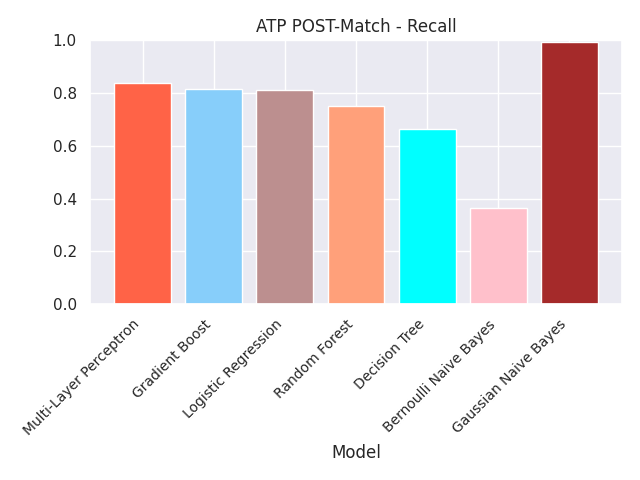
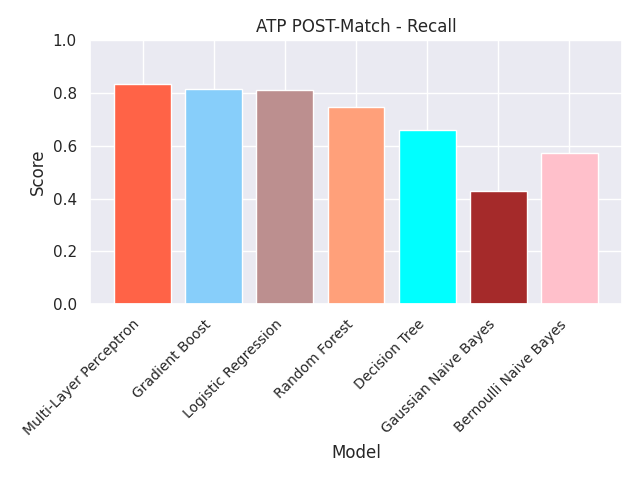
Updated ReadMe and metiric visualizations

diff --git a/README.md b/README.md
@@ -5,7 +5,7 @@ Demonstrating the ability to automate ETL processes in AWS utilizing EC2, S3 and
 The goal of the project is to examine different Machine Learning Models and their effectiveness in predicting ATP (Men's) and WTA (Women's) match results.  Models will be created both from player data pre-match as well as from data after match completed.  This will provide insight into whether tennis match results can be predicted based on players rankings and biometrics (pre-match data) or if in-match performance (post-match data) regardless of player ranking has a greater affect on being able to predict match results.  Included in the predictions will be feature importance from the dataset.  This will help determine what metrics within the match have the highest impact on whether a player will win or not.  This will help any tennis player whether amateur or professional determine what aspects they should focus on in training to increase their likelihood of winning.
 
 ## Dataset
-Historical Match data will be ingested from [Jeff Sackmann's](https://github.com/JeffSackmann) github repository.  The schema for both [ATP](https://github.com/JeffSackmann/tennis_atp) and [WTA](https://github.com/JeffSackmann/tennis_wta) data is the same, providing for singular pre-processing steps for both Men and Women's matches.  The table schema and explanation of data represented in each column can be seen [here](https://github.com/JeffSackmann/tennis_atp/blob/master/matches_data_dictionary.txt).
+Historical Match data will be ingested from [Jeff Sackmann's](https://github.com/JeffSackmann) github repository.  The schema for both [ATP](https://github.com/JeffSackmann/tennis_atp) and [WTA](https://github.com/JeffSackmann/tennis_wta) data is the same, providing for singular pre-processing steps for both Men and Women's matches.  The time frame selected was from the year 1989 to present time.  The table schema and explanation of data represented in each column can be seen [here](https://github.com/JeffSackmann/tennis_atp/blob/master/matches_data_dictionary.txt).
 
 ### Pre-Processing
 Machine Learning Models require training and test data to be input in a form with no null values and all numeric values.  The following pre-processing steps fromatted the dataset in the proper format.
@@ -84,8 +84,29 @@ One-Hot Encoding was performed on all columns that have non-numeric values to en
 >
 >'surface', 'draw_size', 'p0_hand', 'p1_hand', 'round'
 
+**Data Transformation Summary**
+
+Initial raw data shape:
+
+ATP - Instances: 108950, Features: 49
+
+WTA - Instances: 93030, Features: 49
+
+Pre Match Clean Data Shape:
+
+ATP - Instances: 104424, Features: 49
+
+WTA - Instances: 86902, Features: 53
+
+Post Match Clean Data Shape:
+
+ATP - Instances: 94904, Features: 61
+
+WTA - Instances: 20992, Features: 55
+
 ## Model Building
-The Machine Learning problem is a binary classification problem where the prediction is trying to identify the match winner.  Either Player 0 or Player 1.  There a multiple classification models that can be examined to help find which model is best and find the best.  The following classification models were selected to inspect prediction results and find the most accurate model.
+The Machine Learning problem is a binary classification problem where the prediction is trying to identify the match winner.  Either Player 0 or Player 1.  There a multiple classification models that can be examined to help find which 
+model is best and find the best.  The following classification models were selected to inspect prediction results and find the most accurate model.
 <ol>
   <li>Multi-Layer Perceptron (Neural Network)</li>
   <li>Logistice Regression</li>
@@ -96,38 +117,72 @@ The Machine Learning problem is a binary classification problem where the predic
 </ol>
 
 ### Model Metrics
-The six machine learning models are ready to be trained with the tennis data.  The data is separated from its features and target (match_winner) variables.  The features data is normalized using sci-kit learn minMaxScaler so all feature values are in the same range and prevent any feature biases being created based on ranges of values in a feature.   Larger scales in a feature have the ability to introduce a bias when training a model.  Using minMaxScaler prevents this.
+The six machine learning models are ready to be trained with the tennis data.  The data is separated from its features and target (match_winner) variables.  The features data is normalized using sci-kit learn minMaxScaler so all feature values are in the same
+range and prevent any feature biases being created based on ranges of values in a feature.   Larger scales in a feature have the ability to introduce a bias when training a model.  Using minMaxScaler prevents this.
 
-K-Fold Cross Validation was then used on each of the datasets and each of the models using 5 splits.  This provides an accurate represenation of the data using different portions of the data set.  Averaging the results of the model metrics (accuracy, precision, recall, F1) we can see the overall prediction results and see which models are most accurate.  Pre and Post match data can also be compared as seen below.  All metric plots and comparison plots can be found in the [Outputs](https://github.com/timsj12/Tennis_Match_Predictions/tree/master/Outputs) section of this repo under their appropriate tour and directory.
-
-
-**ATP Model Accuracy Comparison**
-
-![image](Outputs/ATP/PRE_MATCH/METRICS/VISUALIZATIONS/atp_pre_match_Accuracy.png)
-
-**ATP Model Time Comparison**
-
-![image](Outputs/ATP/POST_MATCH/METRICS/VISUALIZATIONS/atp_post_match_Time.png)
+K-Fold Cross Validation was then used on each of the datasets and each of the models using 5 splits.  This provides an accurate represenation of the data using different portions of the data set.  Averaging the results of the model metrics (accuracy, precision,
+recall, F1) we can see the overall prediction results and see which models are most accurate.  Pre and Post match data can also be compared as seen below.  All metric plots and comparison plots can be found in the [Outputs](https://github.com/timsj12/Tennis_Match_Predictions/tree/master/Outputs) 
+section of this repo under their appropriate tour and directory.
 
 
+**ATP Model [Accuracy Comparison](Outputs/ATP/PRE_POST_COMPARISON/atp_metric_pre_post_comparison_Accuracy.png)**
+
+![image](Outputs/ATP/PRE_POST_COMPARISON/atp_metric_pre_post_comparison_Accuracy.png)
+
+The results above show that post match data models are better at predicting match results.  This result is obvious and is expected.  The pre-match results have less data to train on and are only taking into 
+account player biometrics, court surface, tournament round and player rank.  Of the models, Multi-Layer Perceptron, Logistic Regression and Gradient Boost performed the best.  While both Naive Bayes and Decision Tree did not perform as well.  Naive Bayes is 
+generally considered a "quick and dirty" model for getting the model to run and get an initial result.  Features are not correlated to each other so the Naive Bayes being the least accurate is not surprising.
+
+Surprisingly, none of the models are able to predict player winner by greater than 82% accuracy.  Further statistical analysis and feature engineering would need to be done to create more accurate models in both the
+pre match and post match datasets.  Other methods to be used for improvements will be discussed later.
+
+**ATP Model [Time Comparison](Outputs/ATP/PRE_POST_COMPARISON/atp_metric_pre_post_comparison_Time.png)**
+
+![image](Outputs/ATP/PRE_POST_COMPARISON/atp_metric_pre_post_comparison_Time.png)
+
+Model Completion Time is also an interesting metric to observe.  Multi-Layer Peceptron Model building took significantly more time to train than all the other combined.  Though it was the most accurate model it is a draw back when 
+using neural networks as the model transfers data back and forth between each layer in the network and between each of the nodes.  Surprisingly the second most accurate model, Gradient Boost was the third fastest model behind the two Naive Bayes Models.
+In terms of performance and accuracy this would be the best model to use for this data set.  It is accurate and fast.
+
+Individual Results for each data set and model are available in their directory within the Metrics/Visualizations sub-directory of each of the datasets.
+
+Example:
+
+**WTA Post Match [Precision](Outputs/WTA/POST_MATCH/METRICS/VISUALIZATIONS/wta_post_match_Precision.png)**
+
+![image](Outputs/WTA/POST_MATCH/METRICS/VISUALIZATIONS/wta_post_match_Precision.png)
 ### Final Model Predictions
-Once each model is evaluated and overall metrics averaged the efficacy of each model is known and the final model can be trained and utilized using the entire dataset.  5% of the datasets were selected as the test portion and the rest were utilized for training.  Each model was again fit and the results were output in a confusion matrices which can be seen in the /Models/Visualization directories in the Output directory for each of the tours.  
+Once each model is evaluated and overall metrics averaged the efficacy of each model is known and the final model can be trained and utilized using the entire dataset.  5% of the datasets were selected as the test
+portion and the rest were utilized for training.  Each model was again fit and the results were output in a confusion matrices which can be seen in the /Models/Visualization directories in the Output directory for each of the tours.  
 
-The confusion matrix confirms the results of the K-Fold metrics generated and the actual numbero of predicted and actual values for each model can be seen.
+The confusion matrix confirms the results of the K-Fold metrics generated and the actual number of predicted and actual values for each model can be seen.  Note the scales of the different models are different for each model confusion matrices.
 
-**ATP Pre-Match Multi-Layer Perceptron (Neural Network)**
+**ATP Pre-Match [Multi-Layer Perceptron (Neural Network)](Outputs/ATP/PRE_MATCH/MODELS/atp_pre_Multi-Layer%20Perceptron_Results_Matrix.png)**
 
 ![image](Outputs/ATP/PRE_MATCH/MODELS/atp_pre_Multi-Layer%20Perceptron_Results_Matrix.png)
 
-**ATP Pre-Match Gaussian Naive Bayes**
+The MLP model was the most accurate model for pre-match data.  About the same number of player 1 and player 0 were correctly predicted as winners.
+
+**ATP Pre-Match [Gaussian Naive Bayes](Outputs/ATP/PRE_MATCH/MODELS/atp_pre_Gaussian%20Naive%20Bayes_Results_Matrix.png)**
 
 ![image](Outputs/ATP/PRE_MATCH/MODELS/atp_pre_Gaussian%20Naive%20Bayes_Results_Matrix.png)
 
-**ATP Pre-Match Most Important Features (Random Forest Generated)**
+The Gaussian Naive Bayes was not accurate in the pre-match predictions.  It only predicted player 1 winners accurately while player 0 winner predictions were highly innacurate.
+
+**ATP Pre-Match [Most Important Features](Outputs/ATP/PRE_MATCH/MODELS/atp_pre_match_RF_Top_Features.png) (Random Forest Generated)**
 
 ![image](Outputs/ATP/PRE_MATCH/MODELS/atp_pre_match_RF_Top_Features.png)
 
-**ATP Post-Match Most Important Features (Random Forest Generated)**
+Player ranking had the most significant impact of predicting which player would win in the ATP Pre-Match Dataset.  This makes sense as the player presumed to be better would have a higher ranking.  Age was the second most important feature followed by
+player id and player height.  Surface and tournament round did not have much of an impact on the models.
+
+**ATP Post-Match [Most Important Features](Outputs/ATP/POST_MATCH/MODELS/atp_post_match_RF_Top_Features.png) (Random Forest Generated)**
 
 ![image](Outputs/ATP/POST_MATCH/MODELS/atp_post_match_RF_Top_Features.png)
+
+The post match dataset had more features.  The Importance of the features was more evenly distributed among the top features possibly indicating why the models were more accurate.  A better relationship between the features and the match winner could be built.
+2nd serve points won, break points saved, aces, number of serve points and 1st serve In were the top features.  All of these features are critical to winning a tennis match and would represent a good estimate of which player would win.  Still it is of note that
+none of the models were able to predict the winner with greater than 82% accuracy.
+
+
 
